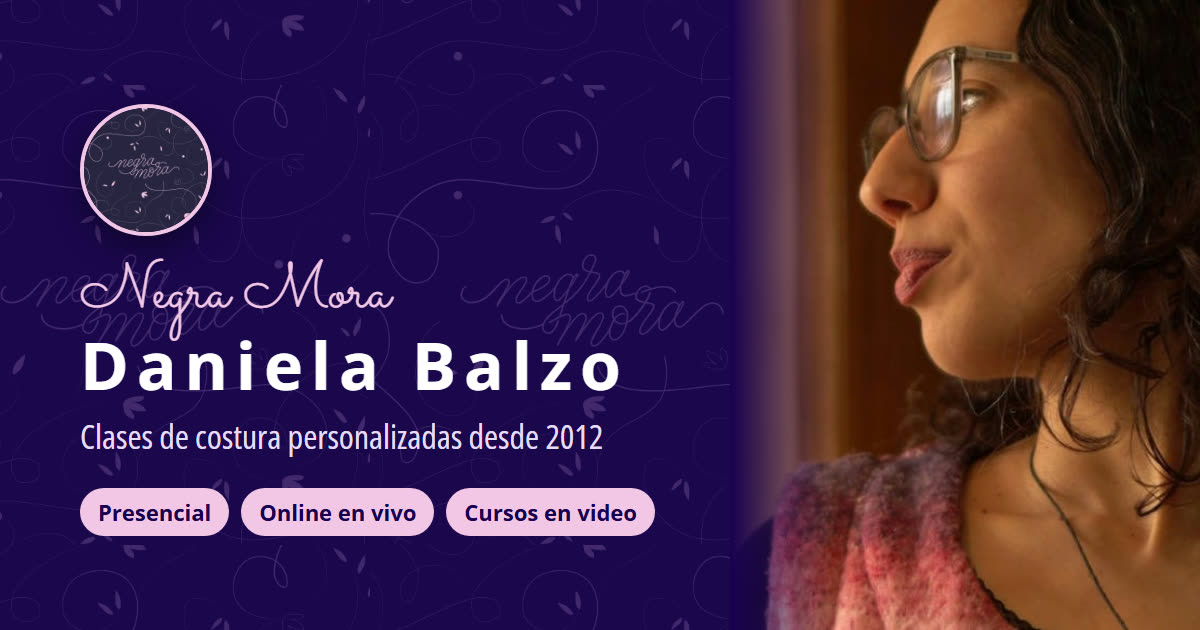
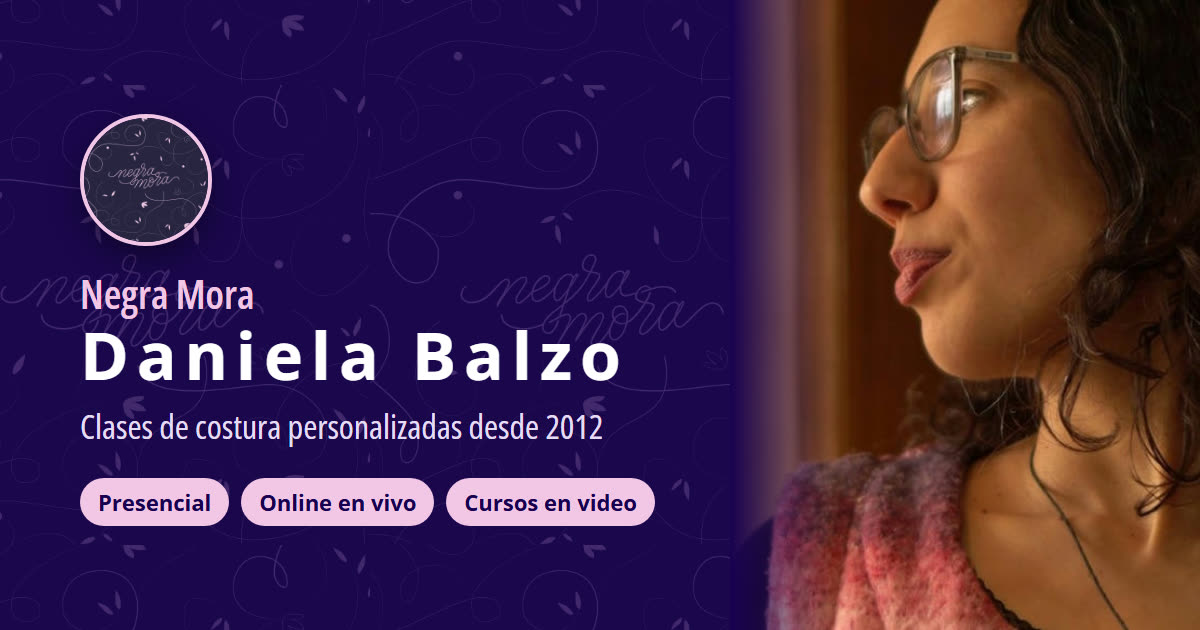
Reemplaza la tipografía cursiva por Open Sans
El "Hola!" de inicio y quién soy, y "Negra Mora" en la imagen para
compartir, ahora usan la tipografía normal de los títulos. Se deja de
cargar Sacramento y se regenera compartir.jpg, lo que además corrige la
descripción para compartir rota en clases grupales y clases online.

diff --git a/clases-grupales.html b/clases-grupales.html
@@ -11,8 +11,7 @@
 <meta property="og:site_name" content="Daniela Balzo · Negra Mora">
 <meta property="og:locale" content="es_CL">
 <meta property="og:title" content="Clases grupales personalizadas | Daniela Balzo · Negra Mora">
-<meta property="og:description" content="Clases de costura grupales y personalizadas en La Reina, a pasos del metro Francisco Bilbao. Máximo 3 cupos, 1 módulo por <meta name="description" content="Clases de costura grupales y personalizadas en La Reina, a pasos del metro Francisco Bilbao. Máximo 3 cupos, 1 módulo por $120.000.">
-20.000.">
+<meta property="og:description" content="Clases de costura grupales y personalizadas en La Reina, a pasos del metro Francisco Bilbao. Máximo 3 cupos, 1 módulo por $120.000.">
 <meta property="og:url" content="https://daniela-balzo.vercel.app/clases-grupales.html">
 <meta property="og:image" content="https://daniela-balzo.vercel.app/assets/img/compartir.jpg">
 <meta property="og:image:width" content="1200">
@@ -23,7 +22,7 @@
 <link rel="icon" href="assets/img/logo-01.jpg">
 <link rel="preconnect" href="https://fonts.googleapis.com">
 <link rel="preconnect" href="https://fonts.gstatic.com" crossorigin>
-<link rel="stylesheet" href="https://fonts.googleapis.com/css2?family=Open+Sans:wdth,wght@75..100,300..800&family=Sacramento&display=swap">
+<link rel="stylesheet" href="https://fonts.googleapis.com/css2?family=Open+Sans:wdth,wght@75..100,300..800&display=swap">
 <link rel="stylesheet" href="assets/css/styles.css">
 </head>
 <body data-pagina="clases-grupales">

diff --git a/clases-online.html b/clases-online.html
@@ -11,8 +11,7 @@
 <meta property="og:site_name" content="Daniela Balzo · Negra Mora">
 <meta property="og:locale" content="es_CL">
 <meta property="og:title" content="Clases online | Daniela Balzo · Negra Mora">
-<meta property="og:description" content="Clases de costura online por Zoom, personalizadas: uso de tu máquina, moldaje, corte y confección. 1 módulo de 4 jornadas por <meta name="description" content="Clases de costura online por Zoom, personalizadas: uso de tu máquina, moldaje, corte y confección. 1 módulo de 4 jornadas por $120.000.">
-20.000.">
+<meta property="og:description" content="Clases de costura online por Zoom, personalizadas: uso de tu máquina, moldaje, corte y confección. 1 módulo de 4 jornadas por $120.000.">
 <meta property="og:url" content="https://daniela-balzo.vercel.app/clases-online.html">
 <meta property="og:image" content="https://daniela-balzo.vercel.app/assets/img/compartir.jpg">
 <meta property="og:image:width" content="1200">
@@ -23,7 +22,7 @@
 <link rel="icon" href="assets/img/logo-01.jpg">
 <link rel="preconnect" href="https://fonts.googleapis.com">
 <link rel="preconnect" href="https://fonts.gstatic.com" crossorigin>
-<link rel="stylesheet" href="https://fonts.googleapis.com/css2?family=Open+Sans:wdth,wght@75..100,300..800&family=Sacramento&display=swap">
+<link rel="stylesheet" href="https://fonts.googleapis.com/css2?family=Open+Sans:wdth,wght@75..100,300..800&display=swap">
 <link rel="stylesheet" href="assets/css/styles.css">
 </head>
 <body data-pagina="clases-online">

diff --git a/scripts/tarjeta-compartir.html b/scripts/tarjeta-compartir.html
@@ -4,7 +4,7 @@
 <html lang="es">
 <head>
 <meta charset="utf-8">
-<link rel="stylesheet" href="https://fonts.googleapis.com/css2?family=Open+Sans:wdth,wght@75..100,400..800&family=Sacramento&display=swap">
+<link rel="stylesheet" href="https://fonts.googleapis.com/css2?family=Open+Sans:wdth,wght@75..100,400..800&display=swap">
 <style>
   * { box-sizing: border-box; }
   html, body { margin: 0; width: 1200px; height: 630px; overflow: hidden; }
@@ -12,7 +12,7 @@
   body::before { content: ""; position: absolute; inset: 0; background: url("../assets/img/logo-01.jpg") center / 460px repeat; opacity: .2; }
   .texto { position: relative; padding: 70px 40px 60px 80px; display: flex; flex-direction: column; justify-content: center; }
   .logo { width: 132px; height: 132px; border-radius: 50%; border: 4px solid #f2c6e6; object-fit: cover; box-shadow: 0 12px 30px rgba(0,0,0,.4); margin-bottom: 26px; }
-  .hola { font-family: "Sacramento", cursive; font-size: 64px; color: #f2c6e6; line-height: 1; margin: 0 0 4px; }
+  .hola { font-family: "Open Sans", sans-serif; font-weight: 600; font-stretch: 75%; font-size: 40px; color: #f2c6e6; line-height: 1.1; margin: 0 0 4px; }
   h1 { font-size: 66px; letter-spacing: .12em; font-weight: 700; margin: 0 0 14px; line-height: 1.05; }
   p { font-stretch: 75%; font-size: 34px; line-height: 1.3; margin: 0; color: #e6dcf5; }
   .pie { margin-top: 30px; display: inline-flex; gap: 12px; }

diff --git a/assets/css/styles.css b/assets/css/styles.css
@@ -43,7 +43,7 @@ li::marker { color: var(--rosa-fuerte); }
 .wrap { max-width: var(--ancho); margin: 0 auto; padding-inline: 20px; }
 .centro { text-align: center; }
 .angosto { max-width: 720px; margin-inline: auto; }
-.script { font-family: var(--f-script); font-weight: 400; font-stretch: 100%; font-size: clamp(2.6rem, 5vw, 3.4rem); line-height: 1; margin: 0 0 4px; color: var(--rosa-fuerte); }
+.script { font-family: var(--f-titulo); font-weight: 600; font-stretch: 75%; font-size: clamp(1.6rem, 3.4vw, 2.1rem); line-height: 1.1; margin: 0 0 6px; color: var(--rosa-fuerte); }
 :focus-visible { outline: 3px solid var(--rosa-fuerte); outline-offset: 2px; }
 @media (prefers-reduced-motion: reduce) { html { scroll-behavior: auto; } *, *::before { transition: none !important; animation: none !important; } }
 

diff --git a/panel.html b/panel.html
@@ -8,7 +8,7 @@
 <link rel="icon" href="assets/img/logo-01.jpg">
 <link rel="preconnect" href="https://fonts.googleapis.com">
 <link rel="preconnect" href="https://fonts.gstatic.com" crossorigin>
-<link rel="stylesheet" href="https://fonts.googleapis.com/css2?family=Open+Sans:wdth,wght@75..100,300..800&family=Sacramento&display=swap">
+<link rel="stylesheet" href="https://fonts.googleapis.com/css2?family=Open+Sans:wdth,wght@75..100,300..800&display=swap">
 <link rel="stylesheet" href="assets/css/styles.css">
 <link rel="stylesheet" href="assets/css/panel.css">
 </head>

diff --git a/ilustracion-textil.html b/ilustracion-textil.html
@@ -22,7 +22,7 @@
 <link rel="icon" href="assets/img/logo-01.jpg">
 <link rel="preconnect" href="https://fonts.googleapis.com">
 <link rel="preconnect" href="https://fonts.gstatic.com" crossorigin>
-<link rel="stylesheet" href="https://fonts.googleapis.com/css2?family=Open+Sans:wdth,wght@75..100,300..800&family=Sacramento&display=swap">
+<link rel="stylesheet" href="https://fonts.googleapis.com/css2?family=Open+Sans:wdth,wght@75..100,300..800&display=swap">
 <link rel="stylesheet" href="assets/css/styles.css">
 </head>
 <body data-pagina="ilustracion-textil">

diff --git a/clases-domicilio.html b/clases-domicilio.html
@@ -22,7 +22,7 @@
 <link rel="icon" href="assets/img/logo-01.jpg">
 <link rel="preconnect" href="https://fonts.googleapis.com">
 <link rel="preconnect" href="https://fonts.gstatic.com" crossorigin>
-<link rel="stylesheet" href="https://fonts.googleapis.com/css2?family=Open+Sans:wdth,wght@75..100,300..800&family=Sacramento&display=swap">
+<link rel="stylesheet" href="https://fonts.googleapis.com/css2?family=Open+Sans:wdth,wght@75..100,300..800&display=swap">
 <link rel="stylesheet" href="assets/css/styles.css">
 </head>
 <body data-pagina="clases-domicilio">

diff --git a/curso.html b/curso.html
@@ -22,7 +22,7 @@
 <link rel="icon" href="assets/img/logo-01.jpg">
 <link rel="preconnect" href="https://fonts.googleapis.com">
 <link rel="preconnect" href="https://fonts.gstatic.com" crossorigin>
-<link rel="stylesheet" href="https://fonts.googleapis.com/css2?family=Open+Sans:wdth,wght@75..100,300..800&family=Sacramento&display=swap">
+<link rel="stylesheet" href="https://fonts.googleapis.com/css2?family=Open+Sans:wdth,wght@75..100,300..800&display=swap">
 <link rel="stylesheet" href="assets/css/styles.css">
 </head>
 <body data-pagina="cursos-online">

diff --git a/cursos-online.html b/cursos-online.html
@@ -22,7 +22,7 @@
 <link rel="icon" href="assets/img/logo-01.jpg">
 <link rel="preconnect" href="https://fonts.googleapis.com">
 <link rel="preconnect" href="https://fonts.gstatic.com" crossorigin>
-<link rel="stylesheet" href="https://fonts.googleapis.com/css2?family=Open+Sans:wdth,wght@75..100,300..800&family=Sacramento&display=swap">
+<link rel="stylesheet" href="https://fonts.googleapis.com/css2?family=Open+Sans:wdth,wght@75..100,300..800&display=swap">
 <link rel="stylesheet" href="assets/css/styles.css">
 </head>
 <body data-pagina="cursos-online">

diff --git a/arte-terapia.html b/arte-terapia.html
@@ -22,7 +22,7 @@
 <link rel="icon" href="assets/img/logo-01.jpg">
 <link rel="preconnect" href="https://fonts.googleapis.com">
 <link rel="preconnect" href="https://fonts.gstatic.com" crossorigin>
-<link rel="stylesheet" href="https://fonts.googleapis.com/css2?family=Open+Sans:wdth,wght@75..100,300..800&family=Sacramento&display=swap">
+<link rel="stylesheet" href="https://fonts.googleapis.com/css2?family=Open+Sans:wdth,wght@75..100,300..800&display=swap">
 <link rel="stylesheet" href="assets/css/styles.css">
 </head>
 <body data-pagina="arte-terapia">

diff --git a/accesorios.html b/accesorios.html
@@ -22,7 +22,7 @@
 <link rel="icon" href="assets/img/logo-01.jpg">
 <link rel="preconnect" href="https://fonts.googleapis.com">
 <link rel="preconnect" href="https://fonts.gstatic.com" crossorigin>
-<link rel="stylesheet" href="https://fonts.googleapis.com/css2?family=Open+Sans:wdth,wght@75..100,300..800&family=Sacramento&display=swap">
+<link rel="stylesheet" href="https://fonts.googleapis.com/css2?family=Open+Sans:wdth,wght@75..100,300..800&display=swap">
 <link rel="stylesheet" href="assets/css/styles.css">
 </head>
 <body data-pagina="accesorios">

diff --git a/quien-soy.html b/quien-soy.html
@@ -22,7 +22,7 @@
 <link rel="icon" href="assets/img/logo-01.jpg">
 <link rel="preconnect" href="https://fonts.googleapis.com">
 <link rel="preconnect" href="https://fonts.gstatic.com" crossorigin>
-<link rel="stylesheet" href="https://fonts.googleapis.com/css2?family=Open+Sans:wdth,wght@75..100,300..800&family=Sacramento&display=swap">
+<link rel="stylesheet" href="https://fonts.googleapis.com/css2?family=Open+Sans:wdth,wght@75..100,300..800&display=swap">
 <link rel="stylesheet" href="assets/css/styles.css">
 </head>
 <body data-pagina="quien-soy">
